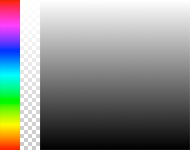
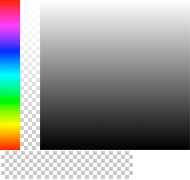
add new extra panel

diff --git a/dist/jquery.colorInput.min.js b/dist/jquery.colorInput.min.js
@@ -1,4 +1,4 @@
-/*! jQuery ColorInput - v0.1.0 - 2012-11-14
+/*! jQuery ColorInput - v0.1.0 - 2012-12-16
 * https://github.com/KaptinLin/colorInput
 * Copyright (c) 2012 KaptinLin; Licensed GPL */
-(function(e,t,n,r){"use strict";var i="colorInput",s=function(e){return e?(e.length===3&&(e=e[0]+e[0]+e[1]+e[1]+e[2]+e[2]),e.length===6?e:null):null},o={RGB:{match:/rgb\(\s*(\d{1,3}%?)\s*,\s*(\d{1,3}%?)\s*,\s*(\d{1,3}%?)\s*\)/,parse:function(e){return{r:e[1].substr(-1)==="%"?parseInt(e[1].slice(0,-1)*2.55,10):parseInt(e[1],10),g:e[2].substr(-1)==="%"?parseInt(e[2].slice(0,-1)*2.55,10):parseInt(e[2],10),b:e[3].substr(-1)==="%"?parseInt(e[3].slice(0,-1)*2.55,10):parseInt(e[3],10)}},to:function(e){return"rgb("+e.r+","+e.g+","+e.b+")"}},RGBA:{match:/rgba\(\s*(\d{1,3}%?)\s*,\s*(\d{1,3}%?)\s*,\s*(\d{1,3}%?)\s*,\s*(\d?(?:\.\d+)?)\s*\)/,parse:function(e){return{r:e[1].substr(-1)==="%"?parseInt(e[1].slice(0,-1)*2.55,10):parseInt(e[1],10),g:e[2].substr(-1)==="%"?parseInt(e[2].slice(0,-1)*2.55,10):parseInt(e[2],10),b:e[3].substr(-1)==="%"?parseInt(e[3].slice(0,-1)*2.55,10):parseInt(e[3],10),a:parseFloat(e[4])}},to:function(e){return"rgba("+e.r+","+e.g+","+e.b+","+e.a+")"}},HSL:{match:/hsl\(\s*(\d+(?:\.\d+)?)\s*,\s*(\d+(?:\.\d+)?)\%\s*,\s*(\d+(?:\.\d+)?)\%\s*\)/,parse:function(e){var t={h:(e[1]%360+360)%360,s:parseFloat(e[2]/100),l:parseFloat(e[3]/100)};return u.HSLToRGB(t)},to:function(e){var t=u.RGBToHSL(e);return"hsl("+parseInt(t.h,10)+","+Math.round(t.s*100)+"%,"+Math.round(t.l*100)+"%)"}},HSLA:{match:/hsla\(\s*(\d+(?:\.\d+)?)\s*,\s*(\d+(?:\.\d+)?)\%\s*,\s*(\d+(?:\.\d+)?)\%\s*,\s*(\d?(?:\.\d+)?)\s*\)/,parse:function(e){var t={h:(e[1]%360+360)%360,s:parseFloat(e[2]/100),l:parseFloat(e[3]/100),a:parseFloat(e[4])};return u.HSLToRGB(t)},to:function(e){var t=u.RGBToHSL(e);return"hsla("+parseInt(t.h,10)+","+Math.round(t.s*100)+"%,"+Math.round(t.l*100)+"%,"+e.a+")"}},HEX:{match:/#([a-f0-9]{6}|[a-f0-9]{3})/,parse:function(e){var t=e[1];return t.length===3&&(t=s(t)),{r:parseInt(t.substr(0,2),16),g:parseInt(t.substr(2,2),16),b:parseInt(t.substr(4,2),16)}},to:function(e){var t=[e.r.toString(16),e.g.toString(16),e.b.toString(16)];return n.each(t,function(e,n){n.length===1&&(t[e]="0"+n)}),"#"+t.join("")}},TRANSPARENT:{match:/transparent/,parse:function(e){return{r:0,g:0,b:0,a:0}},to:function(e){return"transparent"}}},u=n.colorValue=function(e,t){this.value={r:0,g:0,b:0,h:0,s:0,v:0,a:1},this._format="HEX",this.init(e,t)};u.prototype={constructor:u,init:function(e,t,n){this.onChange=typeof n=="function"?n:function(){};if(typeof t!="undefined")this.format(t);else for(var r in o){var i=null;if((i=o[r].match.exec(e))!=null){this.format(r);break}}this.from(e)},from:function(e,t){if(typeof e=="string"){var n=null;for(var r in o)if((n=o[r].match.exec(e))!=null){this.set(o[r].parse(n));break}}else typeof e=="object"&&this.set(e)},format:function(e){if(typeof e!="string"||!(e=e.toUpperCase())||typeof o[e]=="undefined")return this._format;e!=="TRANSPARENT"&&(this._format=e)},toRGBA:function(){return o.RGBA.to(this.value)},toRGB:function(){return o.RGB.to(this.value)},toHSLA:function(){return o.HSLA.to(this.value)},toHSL:function(){return o.HSL.to(this.value)},toHEX:function(){return o.HEX.to(this.value)},toString:function(){return this.value.a===0?o.TRANSPARENT.to(this.value):o[this.format()].to(this.value)},get:function(){return this.value},set:function(e){var t=0,n=0;for(var r in e)"hsv".indexOf(r)!==-1?(n++,this.value[r]=e[r]):"rgb".indexOf(r)!==-1?(t++,this.value[r]=e[r]):r==="a"&&(this.value.a=e.a);if(t>n){var i=u.RGBtoHSV(this.value);this.value.r===0&&this.value.g===0&&this.value.b===0?this.value.h=e.h:this.value.h=i.h,this.value.s=i.s,this.value.v=i.v}else if(n>t){var s=u.HSVtoRGB(this.value);this.value.r=s.r,this.value.g=s.g,this.value.b=s.b}}},u.HSLToRGB=function(e){var t=e.h/360,n=e.s,r=e.l,i,s;r<=.5?s=r*(n+1):s=r+n-r*n,i=r*2-s;var o={r:u.hueToRGB(i,s,t+1/3),g:u.hueToRGB(i,s,t),b:u.hueToRGB(i,s,t-1/3)};return typeof e.a!="undefined"&&(o.a=e.a),e.l===0&&(o.h=e.h),o},u.hueToRGB=function(e,t,n){var r;return n<0?n+=1:n>1&&(n-=1),n*6<1?r=e+(t-e)*n*6:n*2<1?r=t:n*3<2?r=e+(t-e)*(2/3-n)*6:r=e,Math.round(r*255)},u.RGBToHSL=function(e){var t=e.r/255,n=e.g/255,r=e.b/255,i=Math.min(t,n,r),s=Math.max(t,n,r),o=s-i,u=s+i,a=u*.5,f,l;return i===s?f=0:t===s?f=60*(n-r)/o+360:n===s?f=60*(r-t)/o+120:f=60*(t-n)/o+240,o===0?l=0:a<=.5?l=o/u:l=o/(2-u),{h:Math.round(f)%360,s:l,l:a}},u.RGBToHEX=function(e){return o.HEX.to(e)},u.HSLToHEX=function(e){var t=u.HSLToRGB(e);return o.HEX.to(t)},u.HSVtoHEX=function(e){var t=u.HSVtoRGB(e);return o.HEX.to(t)},u.RGBtoHSV=function(e){var t=e.r/255,n=e.g/255,r=e.b/255,i=Math.max(t,n,r),s=Math.min(t,n,r),o,u,a=i,f=i-s;u=i===0?0:f/i;if(i===s)o=0;else{switch(i){case t:o=(n-r)/f+(n<r?6:0);break;case n:o=(r-t)/f+2;break;case r:o=(t-n)/f+4}o/=6}return{h:o*360,s:u,v:a}},u.HSVtoRGB=function(e){var t,n,r,i=e.h%360/60,s=e.s,o=e.v,u=o*s,a=u*(1-Math.abs(i%2-1));return t=n=r=o-u,i=~~i,t+=[u,a,0,0,a,u][i],n+=[a,u,u,a,0,0][i],r+=[0,0,a,u,u,a][i],{r:Math.round(t*255),g:Math.round(n*255),b:Math.round(r*255)}};var a=n.colorInput=function(e,t){this.input=e,this.$input=n(e),this.$picker=n("<div>");var r=[];n.each(this.$input.data(),function(e,t){var n=new RegExp("^color","i");n.test(e)&&(r[e.toLowerCase().replace(n,"")]=t)}),this.options=n.extend(!0,{},a.defaults,t,r),this.components=n.extend(!0,{},this.components);for(var i in this.components)typeof this.options.components[i]!="undefined"&&this.options.components[i]===!1&&delete this.components[i];this.options.format||(this.options.format=this.color.format||"hex"),this.input.value===""?this.color=new u({a:0},this.options.format):this.color=new u(this.input.value,this.options.format),this.created=!1,this.create()};a.prototype={constructor:a,components:{},create:function(){this.created=!0,this.$picker=n(this.options.template.picker);for(var e in this.components)this.components[e].init(this);this.$input.addClass("colorinput");var t=this;this.$input.on({"focus.colorinput":function(){t.show()},"keydown.colorinput":function(e){e.keyCode===9?t.hide():e.keyCode===13&&(t.color.from(t.$input.val()),t.update({},"input"),t.hide())},"keyup.colorinput":function(){t.color.from(t.$input.val()),t.update({},"input")}}),(this.options.readonly||this.$input.prop("readonly"))&&this.readonly(!0),(this.options.disabled||this.$input.prop("disabled"))&&this.disabled(!0)},destroy:function(){this.created=!1,this.hide();for(var e in this.components)this.components[e].destroy(this);this.$picker.remove(),this.$input.removeClass("colorinput").removeData().off(".colorinput")},update:function(e,t){var r=this;e!=={}&&r.color.set(e),n.each(r.components,function(e,n){t!==e&&n.update.call(n,r)}),t!=="input"&&r.$input.val(r.color.toString())},show:function(){if(this.$input.prop("disabled"))return!1;var r=this;this.$picker.parent().length===0&&this.$picker.appendTo("body").on("mousedown.colorinput",function(e){e.stopPropagation(),e.preventDefault();var t=n(e.target),i=t.closest(".colorinput-picker > div");return n.each(r.components,function(t,n){if(i.is(n.selector)&&typeof n.mousedown=="function")return n.mousedown(r,e)}),!1}),this.place(),this.$picker.show(),n(t).on("mousedown.colorinput",function(e){if(n(e.target).is(r.$input))return;return r.hide(),!1}),n(e).on("resize.colorinput",n.proxy(this.place,this))},hide:function(){this.$picker.hide(),this.$input.blur(),n(t).off("mousedown.colorinput"),n(e).off("resize.colorinput")},place:function(){var t=!this.$input.is(":visible"),r=t?this.$trigger.offset():this.$input.offset(),i=t?this.$trigger.outerHeight():this.$input.outerHeight(),s=t?this.$trigger.outerWidth():this.$input.outerWidth()+this.$trigger.outerWidth(),o=this.$picker.outerWidth(),u=this.$picker.outerHeight(),a,f;u+r.top>n(e).height()+n(e).scrollTop()?a=r.top-u:a=r.top+i,o+r.left>n(e).width()+n(e).scrollLeft()?f=r.left-o+s:f=r.left,this.$picker.css({top:a,left:f})},readonly:function(e){return this.created&&this.$input.prop("readonly",e),this},disabled:function(e){return this.created&&this.$input.prop("disabled",e),e?this.$picker.addClass("is-disabled"):this.$picker.removeClass("is-disabled"),this},value:function(e){if(!e)return this.color.toString();this.color.from(e),this.update()},opacity:function(e){if(!e)return this.color.value.a;this.update({a:e})}},a.registerComponent=function(e,t){a.prototype.components[e]=t},a.registerComponent("trigger",{selector:".colorinput-trigger",template:'<span class="colorinput-trigger"><span></span></span>',init:function(e){e.$trigger=n(this.template),this.$trigger_inner=e.$trigger.children("span"),e.$trigger.insertAfter(e.$input),e.$trigger.on({click:n.proxy(e.show,e)}),this.update(e)},update:function(e){this.$trigger_inner.css("backgroundColor",e.color.toRGBA())},destroy:function(e){e.$trigger.remove()}}),a.registerComponent("saturation",{selector:".colorinput-picker-saturation",template:'<div class="colorinput-picker-saturation"><i><b></b></i></div>',width:150,height:150,size:6,data:{},init:function(e){this.$saturation=n(this.template).appendTo(e.$picker),this.$handle=this.$saturation.children("i"),this.update(e)},mousedown:function(e,r){var i=this.$saturation.offset();return this.data.startY=r.pageY,this.data.startX=r.pageX,this.data.top=r.pageY-i.top,this.data.left=r.pageX-i.left,this.move(e,this.data.left,this.data.top),this.mousemove=function(t){t.stopPropagation(),t.preventDefault();var n=this.data.left+(t.pageX||this.data.startX)-this.data.startX,r=this.data.top+(t.pageY||this.data.startY)-this.data.startY;return this.move(e,n,r),!1},this.mouseup=function(e){return e.stopPropagation(),e.preventDefault(),n(t).off({mousemove:this.mousemove,mouseup:this.mouseup}),!1},n(t).on({mousemove:n.proxy(this.mousemove,this),mouseup:n.proxy(this.mouseup,this)}),!1},move:function(e,t,n,r){n=Math.max(0,Math.min(this.height,n)),t=Math.max(0,Math.min(this.width,t)),this.$handle.css({top:n-this.size,left:t-this.size}),r!==!1&&e.update({s:t/this.width,v:1-n/this.height},"saturation")},update:function(e){this.$saturation.css("backgroundColor",u.HSLToHEX({h:e.color.value.h,s:1,l:.5}));var t=e.color.value.s*this.width,n=(1-e.color.value.v)*this.height;this.move(e,t,n,!1)},destroy:function(e){n(t).off({mousemove:this.mousemove,mouseup:this.mouseup})}}),a.registerComponent("hue",{selector:".colorinput-picker-hue",template:'<div class="colorinput-picker-hue"><i></i></div>',height:150,data:{},init:function(e){this.$hue=n(this.template).appendTo(e.$picker),this.$handle=this.$hue.children("i"),this.update(e)},mousedown:function(e,r){var i=this.$hue.offset();return this.data.startY=r.pageY,this.data.top=r.pageY-i.top,this.move(e,this.data.top),this.mousemove=function(t){t.stopPropagation(),t.preventDefault();var n=this.data.top+(t.pageY||this.data.startY)-this.data.startY;return this.move(e,n),!1},this.mouseup=function(e){return e.stopPropagation(),e.preventDefault(),n(t).off({mousemove:this.mousemove,mouseup:this.mouseup}),!1},n(t).on({mousemove:n.proxy(this.mousemove,this),mouseup:n.proxy(this.mouseup,this)}),!1},move:function(e,t,n,r){t=Math.max(0,Math.min(this.height,t)),typeof n=="undefined"&&(n=(1-t/this.height)*360),n=Math.max(0,Math.min(360,n)),this.$handle.css({top:t,background:u.HSVtoHEX({h:n,s:1,v:1})}),r!==!1&&e.update({h:n},"hue")},update:function(e){var t=e.color.value.h===0?0:this.height*(1-e.color.value.h/360);this.move(e,t,e.color.value.h,!1)},destroy:function(e){n(t).off({mousemove:this.mousemove,mouseup:this.mouseup})}}),a.registerComponent("alpha",{selector:".colorinput-picker-alpha",template:'<div class="colorinput-picker-alpha"><i></i></div>',height:150,data:{},init:function(e){this.$alpha=n(this.template).appendTo(e.$picker),this.$handle=this.$alpha.children("i"),this.update(e)},mousedown:function(e,r){var i=this.$alpha.offset();return this.data.startY=r.pageY,this.data.top=r.pageY-i.top,this.move(e,this.data.top),this.mousemove=function(t){t.stopPropagation(),t.preventDefault();var n=this.data.top+(t.pageY||this.data.startY)-this.data.startY;return this.move(e,n),!1},this.mouseup=function(e){return e.stopPropagation(),e.preventDefault(),n(t).off({mousemove:this.mousemove,mouseup:this.mouseup}),!1},n(t).on({mousemove:n.proxy(this.mousemove,this),mouseup:n.proxy(this.mouseup,this)}),!1},move:function(e,t,n,r){t=Math.max(0,Math.min(this.height,t)),typeof n=="undefined"&&(n=1-t/this.height),n=Math.max(0,Math.min(1,n)),this.$handle.css({top:t}),r!==!1&&e.update({a:Math.round(n*100)/100},"alpha")},update:function(e){var t=this.height*(1-e.color.value.a);this.$alpha.css("backgroundColor",e.color.toHEX()),this.move(e,t,e.color.value.a,!1)},destroy:function(e){n(t).off({mousemove:this.mousemove,mouseup:this.mouseup})}}),a.defaults={disabled:!1,readonly:!1,format:null,components:{saturation:!0,hue:!0,alpha:!0},template:{picker:'<div class="colorinput-picker"></div>'}},n.fn.colorInput=function(e){if(typeof e=="string"){var t=e,s=arguments.length>1?Array.prototype.slice.call(arguments,1):r;return this.each(function(){var e=n.data(this,i);typeof e[t]=="function"&&e[t].apply(e,s)})}return this.each(function(){n.data(this,i)||n.data(this,i,new a(this,e))})}})(window,document,jQuery);
+(function(e,t,n,r){"use strict";var i="colorInput",s=function(e){return e?(e.length===3&&(e=e[0]+e[0]+e[1]+e[1]+e[2]+e[2]),e.length===6?e:null):null},o={RGB:{match:/rgb\(\s*(\d{1,3}%?)\s*,\s*(\d{1,3}%?)\s*,\s*(\d{1,3}%?)\s*\)/,parse:function(e){return{r:e[1].substr(-1)==="%"?parseInt(e[1].slice(0,-1)*2.55,10):parseInt(e[1],10),g:e[2].substr(-1)==="%"?parseInt(e[2].slice(0,-1)*2.55,10):parseInt(e[2],10),b:e[3].substr(-1)==="%"?parseInt(e[3].slice(0,-1)*2.55,10):parseInt(e[3],10)}},to:function(e){return"rgb("+e.r+","+e.g+","+e.b+")"}},RGBA:{match:/rgba\(\s*(\d{1,3}%?)\s*,\s*(\d{1,3}%?)\s*,\s*(\d{1,3}%?)\s*,\s*(\d?(?:\.\d+)?)\s*\)/,parse:function(e){return{r:e[1].substr(-1)==="%"?parseInt(e[1].slice(0,-1)*2.55,10):parseInt(e[1],10),g:e[2].substr(-1)==="%"?parseInt(e[2].slice(0,-1)*2.55,10):parseInt(e[2],10),b:e[3].substr(-1)==="%"?parseInt(e[3].slice(0,-1)*2.55,10):parseInt(e[3],10),a:parseFloat(e[4])}},to:function(e){return"rgba("+e.r+","+e.g+","+e.b+","+e.a+")"}},HSL:{match:/hsl\(\s*(\d+(?:\.\d+)?)\s*,\s*(\d+(?:\.\d+)?)\%\s*,\s*(\d+(?:\.\d+)?)\%\s*\)/,parse:function(e){var t={h:(e[1]%360+360)%360,s:parseFloat(e[2]/100),l:parseFloat(e[3]/100)};return u.HSLToRGB(t)},to:function(e){var t=u.RGBToHSL(e);return"hsl("+parseInt(t.h,10)+","+Math.round(t.s*100)+"%,"+Math.round(t.l*100)+"%)"}},HSLA:{match:/hsla\(\s*(\d+(?:\.\d+)?)\s*,\s*(\d+(?:\.\d+)?)\%\s*,\s*(\d+(?:\.\d+)?)\%\s*,\s*(\d?(?:\.\d+)?)\s*\)/,parse:function(e){var t={h:(e[1]%360+360)%360,s:parseFloat(e[2]/100),l:parseFloat(e[3]/100),a:parseFloat(e[4])};return u.HSLToRGB(t)},to:function(e){var t=u.RGBToHSL(e);return"hsla("+parseInt(t.h,10)+","+Math.round(t.s*100)+"%,"+Math.round(t.l*100)+"%,"+e.a+")"}},HEX:{match:/#([a-f0-9]{6}|[a-f0-9]{3})/,parse:function(e){var t=e[1];return t.length===3&&(t=s(t)),{r:parseInt(t.substr(0,2),16),g:parseInt(t.substr(2,2),16),b:parseInt(t.substr(4,2),16)}},to:function(e){var t=[e.r.toString(16),e.g.toString(16),e.b.toString(16)];return n.each(t,function(e,n){n.length===1&&(t[e]="0"+n)}),"#"+t.join("")}},TRANSPARENT:{match:/transparent/,parse:function(e){return{r:0,g:0,b:0,a:0}},to:function(e){return"transparent"}}},u=n.colorValue=function(e,t){this.value={r:0,g:0,b:0,h:0,s:0,v:0,a:1},this._format="HEX",this.init(e,t)};u.prototype={constructor:u,init:function(e,t,n){this.onChange=typeof n=="function"?n:function(){};if(typeof t!="undefined")this.format(t);else for(var r in o){var i=null;if((i=o[r].match.exec(e))!=null){this.format(r);break}}this.from(e)},from:function(e,t){if(typeof e=="string"){var n=null;for(var r in o)if((n=o[r].match.exec(e))!=null){this.set(o[r].parse(n));break}}else typeof e=="object"&&this.set(e)},format:function(e){if(typeof e!="string"||!(e=e.toUpperCase())||typeof o[e]=="undefined")return this._format;e!=="TRANSPARENT"&&(this._format=e)},toRGBA:function(){return o.RGBA.to(this.value)},toRGB:function(){return o.RGB.to(this.value)},toHSLA:function(){return o.HSLA.to(this.value)},toHSL:function(){return o.HSL.to(this.value)},toHEX:function(){return o.HEX.to(this.value)},toString:function(){return this.value.a===0?o.TRANSPARENT.to(this.value):o[this.format()].to(this.value)},get:function(){return this.value},set:function(e){var t=0,n=0;for(var r in e)"hsv".indexOf(r)!==-1?(n++,this.value[r]=e[r]):"rgb".indexOf(r)!==-1?(t++,this.value[r]=e[r]):r==="a"&&(this.value.a=e.a);if(t>n){var i=u.RGBtoHSV(this.value);this.value.r===0&&this.value.g===0&&this.value.b===0?this.value.h=e.h:this.value.h=i.h,this.value.s=i.s,this.value.v=i.v}else if(n>t){var s=u.HSVtoRGB(this.value);this.value.r=s.r,this.value.g=s.g,this.value.b=s.b}}},u.HSLToRGB=function(e){var t=e.h/360,n=e.s,r=e.l,i,s;r<=.5?s=r*(n+1):s=r+n-r*n,i=r*2-s;var o={r:u.hueToRGB(i,s,t+1/3),g:u.hueToRGB(i,s,t),b:u.hueToRGB(i,s,t-1/3)};return typeof e.a!="undefined"&&(o.a=e.a),e.l===0&&(o.h=e.h),o},u.hueToRGB=function(e,t,n){var r;return n<0?n+=1:n>1&&(n-=1),n*6<1?r=e+(t-e)*n*6:n*2<1?r=t:n*3<2?r=e+(t-e)*(2/3-n)*6:r=e,Math.round(r*255)},u.RGBToHSL=function(e){var t=e.r/255,n=e.g/255,r=e.b/255,i=Math.min(t,n,r),s=Math.max(t,n,r),o=s-i,u=s+i,a=u*.5,f,l;return i===s?f=0:t===s?f=60*(n-r)/o+360:n===s?f=60*(r-t)/o+120:f=60*(t-n)/o+240,o===0?l=0:a<=.5?l=o/u:l=o/(2-u),{h:Math.round(f)%360,s:l,l:a}},u.RGBToHEX=function(e){return o.HEX.to(e)},u.HSLToHEX=function(e){var t=u.HSLToRGB(e);return o.HEX.to(t)},u.HSVtoHEX=function(e){var t=u.HSVtoRGB(e);return o.HEX.to(t)},u.RGBtoHSV=function(e){var t=e.r/255,n=e.g/255,r=e.b/255,i=Math.max(t,n,r),s=Math.min(t,n,r),o,u,a=i,f=i-s;u=i===0?0:f/i;if(i===s)o=0;else{switch(i){case t:o=(n-r)/f+(n<r?6:0);break;case n:o=(r-t)/f+2;break;case r:o=(t-n)/f+4}o/=6}return{h:o*360,s:u,v:a}},u.HSVtoRGB=function(e){var t,n,r,i=e.h%360/60,s=e.s,o=e.v,u=o*s,a=u*(1-Math.abs(i%2-1));return t=n=r=o-u,i=~~i,t+=[u,a,0,0,a,u][i],n+=[a,u,u,a,0,0][i],r+=[0,0,a,u,u,a][i],{r:Math.round(t*255),g:Math.round(n*255),b:Math.round(r*255)}};var a=n.colorInput=function(e,t){this.input=e,this.$input=n(e),this.$picker=n("<div>");var r=[];n.each(this.$input.data(),function(e,t){var n=new RegExp("^color","i");n.test(e)&&(r[e.toLowerCase().replace(n,"")]=t)}),this.options=n.extend(!0,{},a.defaults,t,r),this.components=n.extend(!0,{},this.components);for(var i in this.components)typeof this.options.components[i]!="undefined"&&this.options.components[i]===!1&&delete this.components[i];this.options.format||(this.options.format=this.options.format||"hex"),this.input.value===""?this.color=new u({r:255,g:255,b:255,a:1},this.options.format):this.color=new u(this.input.value,this.options.format),this.created=!1,this.create()};a.prototype={constructor:a,components:{},create:function(){this.created=!0,this.$picker=n(this.options.template.picker);for(var e in this.components)this.components[e].init(this);this.$input.addClass("colorinput");var t=this;this.$input.on({"focus.colorinput":function(){t.show()},"keydown.colorinput":function(e){e.keyCode===9?t.hide():e.keyCode===13&&(t.color.from(t.$input.val()),t.update({},"input"),t.hide())},"keyup.colorinput":function(){t.color.from(t.$input.val()),t.update({},"input")}}),(this.options.readonly||this.$input.prop("readonly"))&&this.readonly(!0),(this.options.disabled||this.$input.prop("disabled"))&&this.disabled(!0)},destroy:function(){this.created=!1,this.hide();for(var e in this.components)this.components[e].destroy(this);this.$picker.remove(),this.$input.removeClass("colorinput").removeData().off(".colorinput")},update:function(e,t){var r=this;e!=={}&&r.color.set(e),n.each(r.components,function(e,n){t!==e&&n.update.call(n,r)}),t!=="input"&&r.$input.val(r.color.toString())},show:function(){if(this.$input.prop("disabled"))return!1;var r=this;this.$picker.parent().length===0&&this.$picker.appendTo("body").on("mousedown.colorinput",function(e){e.stopPropagation(),e.preventDefault();var t=n(e.target),i=t.closest(".colorinput-picker > div");return n.each(r.components,function(t,n){if(i.is(n.selector)&&typeof n.mousedown=="function")return n.mousedown(r,e)}),!1}),this.place(),this.$picker.show(),n(t).on("mousedown.colorinput",function(e){if(n(e.target).is(r.$input))return;return r.hide(),!1}),n(e).on("resize.colorinput",n.proxy(this.place,this))},hide:function(){this.$picker.hide(),this.$input.blur(),n(t).off("mousedown.colorinput"),n(e).off("resize.colorinput")},place:function(){var t=!this.$input.is(":visible"),r=t?this.$trigger.offset():this.$input.offset(),i=t?this.$trigger.outerHeight():this.$input.outerHeight(),s=t?this.$trigger.outerWidth():this.$input.outerWidth()+this.$trigger.outerWidth(),o=this.$picker.outerWidth(),u=this.$picker.outerHeight(),a,f;u+r.top>n(e).height()+n(e).scrollTop()?a=r.top-u:a=r.top+i,o+r.left>n(e).width()+n(e).scrollLeft()?f=r.left-o+s:f=r.left,this.$picker.css({top:a,left:f})},readonly:function(e){return this.created&&this.$input.prop("readonly",e),this},disabled:function(e){return this.created&&this.$input.prop("disabled",e),e?this.$picker.addClass("is-disabled"):this.$picker.removeClass("is-disabled"),this},value:function(e){if(!e)return this.color.toString();this.color.from(e),this.update()},opacity:function(e){if(!e)return this.color.value.a;this.update({a:e})}},a.registerComponent=function(e,t){a.prototype.components[e]=t},a.registerComponent("trigger",{selector:".colorinput-trigger",template:'<span class="colorinput-trigger"><span></span></span>',init:function(e){e.$trigger=n(this.template),this.$trigger_inner=e.$trigger.children("span"),e.$trigger.insertAfter(e.$input),e.$trigger.on({click:n.proxy(e.show,e)}),this.update(e)},update:function(e){this.$trigger_inner.css("backgroundColor",e.color.toRGBA())},destroy:function(e){e.$trigger.remove()}}),a.registerComponent("saturation",{selector:".colorinput-picker-saturation",template:'<div class="colorinput-picker-saturation"><i><b></b></i></div>',width:150,height:150,size:6,data:{},init:function(e){this.$saturation=n(this.template).appendTo(e.$picker),this.$handle=this.$saturation.children("i"),this.update(e)},mousedown:function(e,r){var i=this.$saturation.offset();return this.data.startY=r.pageY,this.data.startX=r.pageX,this.data.top=r.pageY-i.top,this.data.left=r.pageX-i.left,this.move(e,this.data.left,this.data.top),this.mousemove=function(t){t.stopPropagation(),t.preventDefault();var n=this.data.left+(t.pageX||this.data.startX)-this.data.startX,r=this.data.top+(t.pageY||this.data.startY)-this.data.startY;return this.move(e,n,r),!1},this.mouseup=function(e){return e.stopPropagation(),e.preventDefault(),n(t).off({mousemove:this.mousemove,mouseup:this.mouseup}),!1},n(t).on({mousemove:n.proxy(this.mousemove,this),mouseup:n.proxy(this.mouseup,this)}),!1},move:function(e,t,n,r){n=Math.max(0,Math.min(this.height,n)),t=Math.max(0,Math.min(this.width,t)),this.$handle.css({top:n-this.size,left:t-this.size}),r!==!1&&e.update({s:t/this.width,v:1-n/this.height},"saturation")},update:function(e){this.$saturation.css("backgroundColor",u.HSLToHEX({h:e.color.value.h,s:1,l:.5}));var t=e.color.value.s*this.width,n=(1-e.color.value.v)*this.height;this.move(e,t,n,!1)},destroy:function(e){n(t).off({mousemove:this.mousemove,mouseup:this.mouseup})}}),a.registerComponent("hue",{selector:".colorinput-picker-hue",template:'<div class="colorinput-picker-hue"><i></i></div>',height:150,data:{},init:function(e){this.$hue=n(this.template).appendTo(e.$picker),this.$handle=this.$hue.children("i"),this.update(e)},mousedown:function(e,r){var i=this.$hue.offset();return this.data.startY=r.pageY,this.data.top=r.pageY-i.top,this.move(e,this.data.top),this.mousemove=function(t){t.stopPropagation(),t.preventDefault();var n=this.data.top+(t.pageY||this.data.startY)-this.data.startY;return this.move(e,n),!1},this.mouseup=function(e){return e.stopPropagation(),e.preventDefault(),n(t).off({mousemove:this.mousemove,mouseup:this.mouseup}),!1},n(t).on({mousemove:n.proxy(this.mousemove,this),mouseup:n.proxy(this.mouseup,this)}),!1},move:function(e,t,n,r){t=Math.max(0,Math.min(this.height,t)),typeof n=="undefined"&&(n=(1-t/this.height)*360),n=Math.max(0,Math.min(360,n)),this.$handle.css({top:t,background:u.HSVtoHEX({h:n,s:1,v:1})}),r!==!1&&e.update({h:n},"hue")},update:function(e){var t=e.color.value.h===0?0:this.height*(1-e.color.value.h/360);this.move(e,t,e.color.value.h,!1)},destroy:function(e){n(t).off({mousemove:this.mousemove,mouseup:this.mouseup})}}),a.registerComponent("alpha",{selector:".colorinput-picker-alpha",template:'<div class="colorinput-picker-alpha"><i></i></div>',height:150,data:{},init:function(e){this.$alpha=n(this.template).appendTo(e.$picker),this.$handle=this.$alpha.children("i"),this.update(e)},mousedown:function(e,r){var i=this.$alpha.offset();return this.data.startY=r.pageY,this.data.top=r.pageY-i.top,this.move(e,this.data.top),this.mousemove=function(t){t.stopPropagation(),t.preventDefault();var n=this.data.top+(t.pageY||this.data.startY)-this.data.startY;return this.move(e,n),!1},this.mouseup=function(e){return e.stopPropagation(),e.preventDefault(),n(t).off({mousemove:this.mousemove,mouseup:this.mouseup}),!1},n(t).on({mousemove:n.proxy(this.mousemove,this),mouseup:n.proxy(this.mouseup,this)}),!1},move:function(e,t,n,r){t=Math.max(0,Math.min(this.height,t)),typeof n=="undefined"&&(n=1-t/this.height),n=Math.max(0,Math.min(1,n)),this.$handle.css({top:t}),r!==!1&&e.update({a:Math.round(n*100)/100},"alpha")},update:function(e){var t=this.height*(1-e.color.value.a);this.$alpha.css("backgroundColor",e.color.toHEX()),this.move(e,t,e.color.value.a,!1)},destroy:function(e){n(t).off({mousemove:this.mousemove,mouseup:this.mouseup})}}),a.registerComponent("extra",{selector:".colorinput-picker-extra",template:'<div class="colorinput-picker-extra"><ul class="colorinput-picker-sets"><li class="colorinput-picker-set-white">white</li><li class="colorinput-picker-set-black">black</li><li class="colorinput-picker-set-transparent">transparent</li></ul><ul class="colorinput-picker-info"><li><label>R:<input type="text" class="colorinput-picker-info-r"/></label></li><li><label>G:<input type="text" class="colorinput-picker-info-g"/></label></li><li><label>B:<input type="text" class="colorinput-picker-info-b"/></label></li><li><label>A:<input type="text" class="colorinput-picker-info-a"/></label></li></ul><input type="text" class="colorinput-picker-hex" /><div class="colorinput-picker-preview"><div></div></div></div>',height:150,data:{},init:function(e){this.$extra=n(this.template),this.$extra.$r=this.$extra.find(".colorinput-picker-info-r"),this.$extra.$g=this.$extra.find(".colorinput-picker-info-g"),this.$extra.$b=this.$extra.find(".colorinput-picker-info-b"),this.$extra.$a=this.$extra.find(".colorinput-picker-info-a"),this.$extra.$hex=this.$extra.find(".colorinput-picker-hex"),this.$extra.$preview=this.$extra.find(".colorinput-picker-preview div"),this.update(e),this.$extra.appendTo(e.$picker)},update:function(e){this.$extra.$r.val(e.color.value.r),this.$extra.$g.val(e.color.value.g),this.$extra.$b.val(e.color.value.b),this.$extra.$a.val(e.color.value.a),this.$extra.$hex.val(e.color.toHEX()),this.$extra.$preview.css("backgroundColor",e.color.toRGBA())}}),a.defaults={disabled:!1,readonly:!1,format:null,components:{saturation:!0,hue:!0,alpha:!0,extra:!0},template:{picker:'<div class="colorinput-picker"></div>'}},n.fn.colorInput=function(e){if(typeof e=="string"){var t=e,s=arguments.length>1?Array.prototype.slice.call(arguments,1):r;return this.each(function(){var e=n.data(this,i);typeof e[t]=="function"&&e[t].apply(e,s)})}return this.each(function(){n.data(this,i)||n.data(this,i,new a(this,e))})}})(window,document,jQuery);

diff --git a/dist/jquery.colorInput.js b/dist/jquery.colorInput.js
@@ -1,4 +1,4 @@
-/*! jQuery ColorInput - v0.1.0 - 2012-11-14
+/*! jQuery ColorInput - v0.1.0 - 2012-12-16
 * https://github.com/KaptinLin/colorInput
 * Copyright (c) 2012 KaptinLin; Licensed GPL */
 
@@ -419,18 +419,20 @@
     }
 
     if (!this.options.format) {
-      this.options.format = this.color.format || 'hex';
+      this.options.format = this.options.format||'hex';
     }
 
     // color value and format
     if (this.input.value === '') {
       this.color = new Color({
-        a: 0
+        r: 255,
+        g: 255,
+        b: 255,
+        a: 1
       }, this.options.format);
     } else {
       this.color = new Color(this.input.value, this.options.format);
     }
-
 
     // create
     this.created = false;
@@ -520,7 +522,6 @@
 
       // if not attached to body
       if (this.$picker.parent().length === 0) {
-
         this.$picker.appendTo('body').on('mousedown.colorinput', function (e) {
           e.stopPropagation();
           e.preventDefault();
@@ -892,6 +893,49 @@
     }
   });
 
+  ColorInput.registerComponent('extra', {
+    selector: '.colorinput-picker-extra',
+    template: '<div class="colorinput-picker-extra">' +
+                '<ul class="colorinput-picker-sets">' +
+                  '<li class="colorinput-picker-set-white">white</li>' +
+                  '<li class="colorinput-picker-set-black">black</li>' +
+                  '<li class="colorinput-picker-set-transparent">transparent</li>' +
+                '</ul>' +
+                '<ul class="colorinput-picker-info">' +
+                  '<li><label>R:<input type="text" class="colorinput-picker-info-r"/></label></li>' +
+                  '<li><label>G:<input type="text" class="colorinput-picker-info-g"/></label></li>' +
+                  '<li><label>B:<input type="text" class="colorinput-picker-info-b"/></label></li>' +
+                  '<li><label>A:<input type="text" class="colorinput-picker-info-a"/></label></li>' +
+                '</ul>' +
+                '<input type="text" class="colorinput-picker-hex" />' +
+                '<div class="colorinput-picker-preview"><div></div></div>' +
+              '</div>',
+    height: 150,
+    data: {},
+    init: function (api) {
+      this.$extra = $(this.template);
+
+      this.$extra.$r = this.$extra.find('.colorinput-picker-info-r');
+      this.$extra.$g = this.$extra.find('.colorinput-picker-info-g');
+      this.$extra.$b = this.$extra.find('.colorinput-picker-info-b');
+      this.$extra.$a = this.$extra.find('.colorinput-picker-info-a');
+      this.$extra.$hex = this.$extra.find('.colorinput-picker-hex');
+      this.$extra.$preview = this.$extra.find('.colorinput-picker-preview div');
+
+      this.update(api);
+
+      this.$extra.appendTo(api.$picker);
+    },
+    update: function(api) {
+      this.$extra.$r.val(api.color.value.r);
+      this.$extra.$g.val(api.color.value.g);
+      this.$extra.$b.val(api.color.value.b);
+      this.$extra.$a.val(api.color.value.a);
+      this.$extra.$hex.val(api.color.toHEX());
+      this.$extra.$preview.css('backgroundColor', api.color.toRGBA());
+    }
+  });
+
   // Default options for the plugin as a simple object
   ColorInput.defaults = {
     disabled: false,
@@ -900,7 +944,8 @@
     components: {
       saturation: true,
       hue: true,
-      alpha: true
+      alpha: true,
+      extra: true
     },
     template: {
       picker: '<div class="colorinput-picker"></div>'

diff --git a/src/jquery.colorInput.js b/src/jquery.colorInput.js
@@ -415,18 +415,20 @@
     }
 
     if (!this.options.format) {
-      this.options.format = this.color.format || 'hex';
+      this.options.format = this.options.format||'hex';
     }
 
     // color value and format
     if (this.input.value === '') {
       this.color = new Color({
-        a: 0
+        r: 255,
+        g: 255,
+        b: 255,
+        a: 1
       }, this.options.format);
     } else {
       this.color = new Color(this.input.value, this.options.format);
     }
-
 
     // create
     this.created = false;
@@ -516,7 +518,6 @@
 
       // if not attached to body
       if (this.$picker.parent().length === 0) {
-
         this.$picker.appendTo('body').on('mousedown.colorinput', function (e) {
           e.stopPropagation();
           e.preventDefault();
@@ -888,6 +889,49 @@
     }
   });
 
+  ColorInput.registerComponent('extra', {
+    selector: '.colorinput-picker-extra',
+    template: '<div class="colorinput-picker-extra">' +
+                '<ul class="colorinput-picker-sets">' +
+                  '<li class="colorinput-picker-set-white">white</li>' +
+                  '<li class="colorinput-picker-set-black">black</li>' +
+                  '<li class="colorinput-picker-set-transparent">transparent</li>' +
+                '</ul>' +
+                '<ul class="colorinput-picker-info">' +
+                  '<li><label>R:<input type="text" class="colorinput-picker-info-r"/></label></li>' +
+                  '<li><label>G:<input type="text" class="colorinput-picker-info-g"/></label></li>' +
+                  '<li><label>B:<input type="text" class="colorinput-picker-info-b"/></label></li>' +
+                  '<li><label>A:<input type="text" class="colorinput-picker-info-a"/></label></li>' +
+                '</ul>' +
+                '<input type="text" class="colorinput-picker-hex" />' +
+                '<div class="colorinput-picker-preview"><div></div></div>' +
+              '</div>',
+    height: 150,
+    data: {},
+    init: function (api) {
+      this.$extra = $(this.template);
+
+      this.$extra.$r = this.$extra.find('.colorinput-picker-info-r');
+      this.$extra.$g = this.$extra.find('.colorinput-picker-info-g');
+      this.$extra.$b = this.$extra.find('.colorinput-picker-info-b');
+      this.$extra.$a = this.$extra.find('.colorinput-picker-info-a');
+      this.$extra.$hex = this.$extra.find('.colorinput-picker-hex');
+      this.$extra.$preview = this.$extra.find('.colorinput-picker-preview div');
+
+      this.update(api);
+
+      this.$extra.appendTo(api.$picker);
+    },
+    update: function(api) {
+      this.$extra.$r.val(api.color.value.r);
+      this.$extra.$g.val(api.color.value.g);
+      this.$extra.$b.val(api.color.value.b);
+      this.$extra.$a.val(api.color.value.a);
+      this.$extra.$hex.val(api.color.toHEX());
+      this.$extra.$preview.css('backgroundColor', api.color.toRGBA());
+    }
+  });
+
   // Default options for the plugin as a simple object
   ColorInput.defaults = {
     disabled: false,
@@ -896,7 +940,8 @@
     components: {
       saturation: true,
       hue: true,
-      alpha: true
+      alpha: true,
+      extra: true
     },
     template: {
       picker: '<div class="colorinput-picker"></div>'

diff --git a/demo/css/colorInput.css b/demo/css/colorInput.css
@@ -95,3 +95,87 @@
      -moz-border-radius: 9px;
           border-radius: 9px;
 }
+
+.colorinput-picker-extra {
+  float: left;
+  width: 70px;
+  margin-left: 5px;
+  font-size: 11px;
+}
+
+.colorinput-picker-extra ul {
+  padding: 0;
+  margin: 0;
+  list-style: none;
+}
+
+.colorinput-picker-extra li {
+  padding: 0;
+  margin: 0;
+}
+
+.colorinput-picker-sets {
+  width: 60px;
+  height: 20px;
+  margin-bottom: 5px !important;
+  overflow: hidden;
+  border: 1px solid #888;
+  border-color: rgba(0, 0, 0, 0.5);
+}
+
+.colorinput-picker-sets li {
+  display: inline-block;
+  width: 20px;
+  height: 20px;
+  overflow: hidden;
+  font-size: 0;
+  color: transparent;
+  text-indent: 100%;
+  white-space: nowrap;
+  cursor: pointer;
+}
+
+.colorinput-picker-sets .colorinput-picker-set-white {
+  background: #fff;
+}
+
+.colorinput-picker-sets .colorinput-picker-set-black {
+  background: #000;
+}
+
+.colorinput-picker-sets .colorinput-picker-set-transparent {
+  background: url(../img/colors.png) -1px -151px no-repeat;
+}
+
+.colorinput-picker-info {
+  margin-bottom: 5px !important;
+}
+
+.colorinput-picker-info label {
+  margin-left: 15px;
+}
+
+.colorinput-picker-info input {
+  width: 35px;
+  margin-left: 5px;
+  border: none;
+}
+
+.colorinput-picker-hex {
+  width: 70px;
+  margin-bottom: 5px !important;
+  -webkit-box-sizing: border-box;
+     -moz-box-sizing: border-box;
+          box-sizing: border-box;
+}
+
+.colorinput-picker-preview {
+  background: url("../img/colors.png") no-repeat scroll -1px -151px transparent;
+  border: 1px solid #888;
+  border-color: rgba(0, 0, 0, 0.5);
+}
+
+.colorinput-picker-preview div {
+  width: 68px;
+  height: 28px;
+}

diff --git a/demo/less/colorInput.less b/demo/less/colorInput.less
@@ -89,3 +89,76 @@
   	}
   }
 }
+.colorinput-picker-extra {
+	float: left;
+	margin-left: 5px;
+	width: 70px;
+	font-size: 11px;
+	ul {
+		margin: 0;
+		padding: 0;
+		list-style: none;
+	}
+	li {
+		margin: 0;
+		padding: 0;
+	}
+	input {
+		
+	}
+}
+.colorinput-picker-sets {
+	width: 60px;
+	height: 20px;
+	overflow: hidden;
+	border: 1px solid #888;
+	border-color: rgba(0,0,0,0.5);
+	margin-bottom: 5px !important;
+	li {
+		width: 20px;
+		height: 20px;
+		cursor: pointer;
+		display: inline-block;
+		font-size: 0;
+		color: transparent;
+		text-indent: 100%;
+		white-space: nowrap;
+		overflow: hidden;
+	}
+	.colorinput-picker-set-white {
+		background: #fff;
+	}
+	.colorinput-picker-set-black {
+		background: #000;
+	}
+	.colorinput-picker-set-transparent {
+		background: url(../img/colors.png) -1px -151px no-repeat;
+	}
+}
+.colorinput-picker-info {
+	label {
+		margin-left: 15px;
+	}
+	margin-bottom: 5px !important;
+	input {
+		margin-left: 5px;
+		width: 35px;
+		border: none;
+	}
+}
+.colorinput-picker-hex {
+	margin-bottom: 5px !important;
+	width: 70px;
+	-webkit-box-sizing: border-box;
+	-moz-box-sizing: border-box;
+	box-sizing: border-box;
+}
+.colorinput-picker-preview {
+	background: url("../img/colors.png") no-repeat scroll -1px -151px transparent;
+	border: 1px solid #888;
+	border-color: rgba(0,0,0,0.5);
+	div {
+		width: 68px;
+		height: 28px;
+	}
+}

diff --git a/demo/index.html b/demo/index.html
@@ -39,7 +39,7 @@
 
 <p>
     Black theme (set class=&quot;black&quot; on the input)<br />
-    <input type="text" name="color2" class="color-picker black" value="rgba(255,146,180,1)" size="7" />
+    <input type="text" name="color2" class="color-picker black" value="" size="7" />
 </p>
 
 <p>
